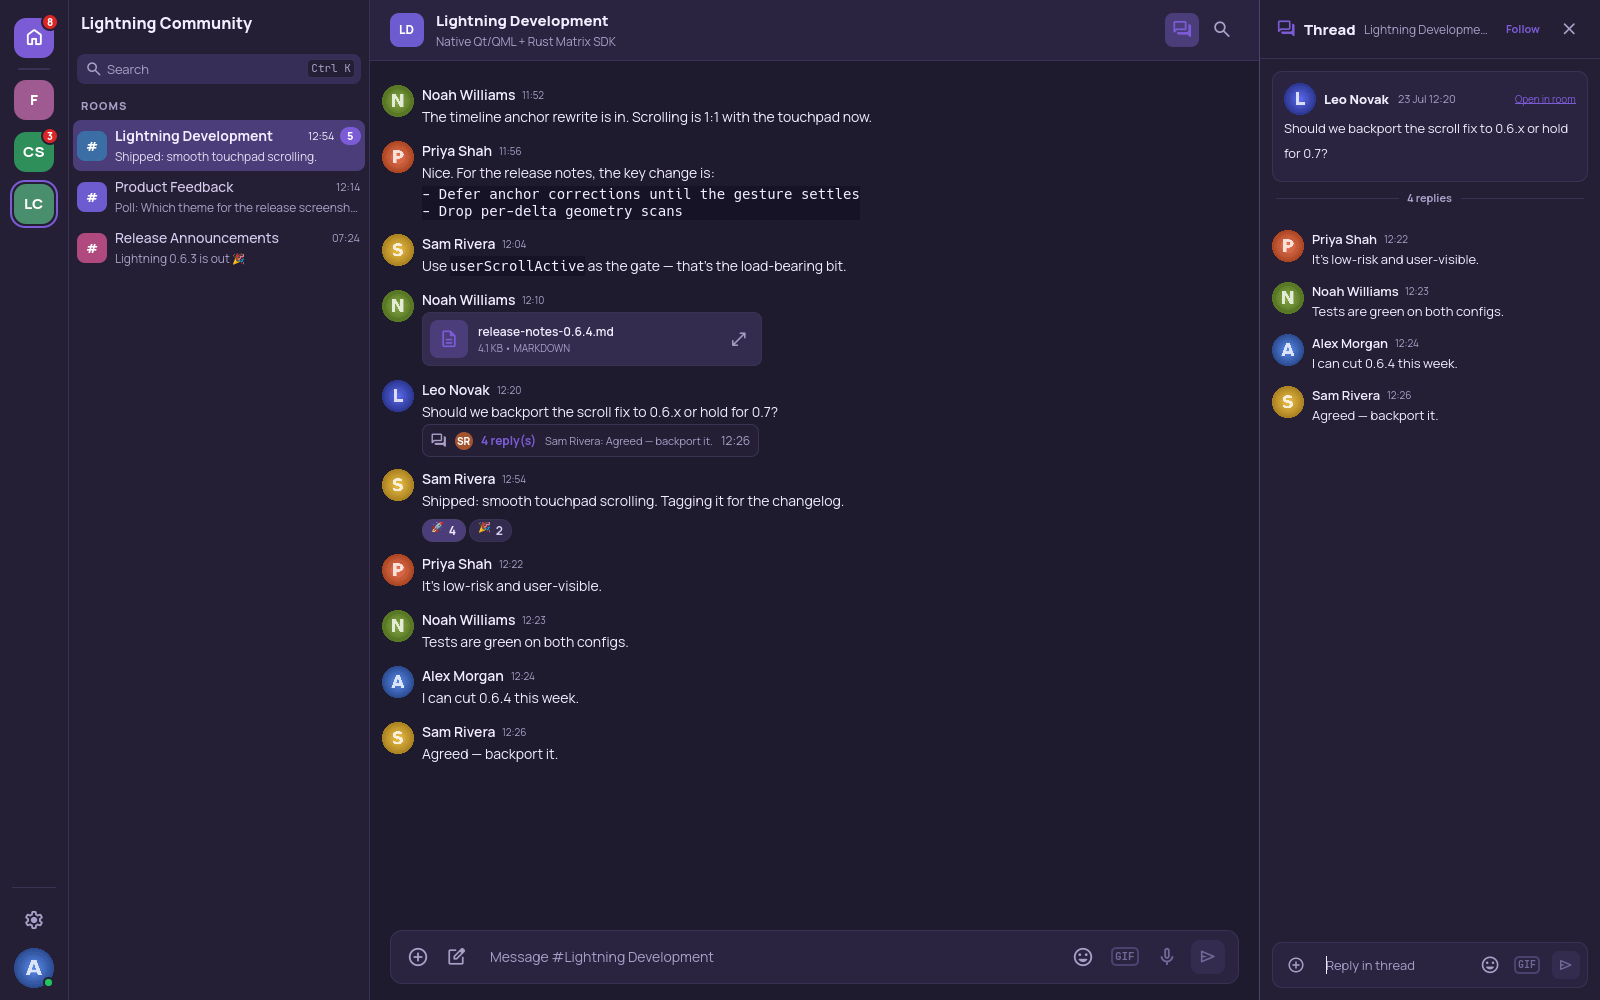
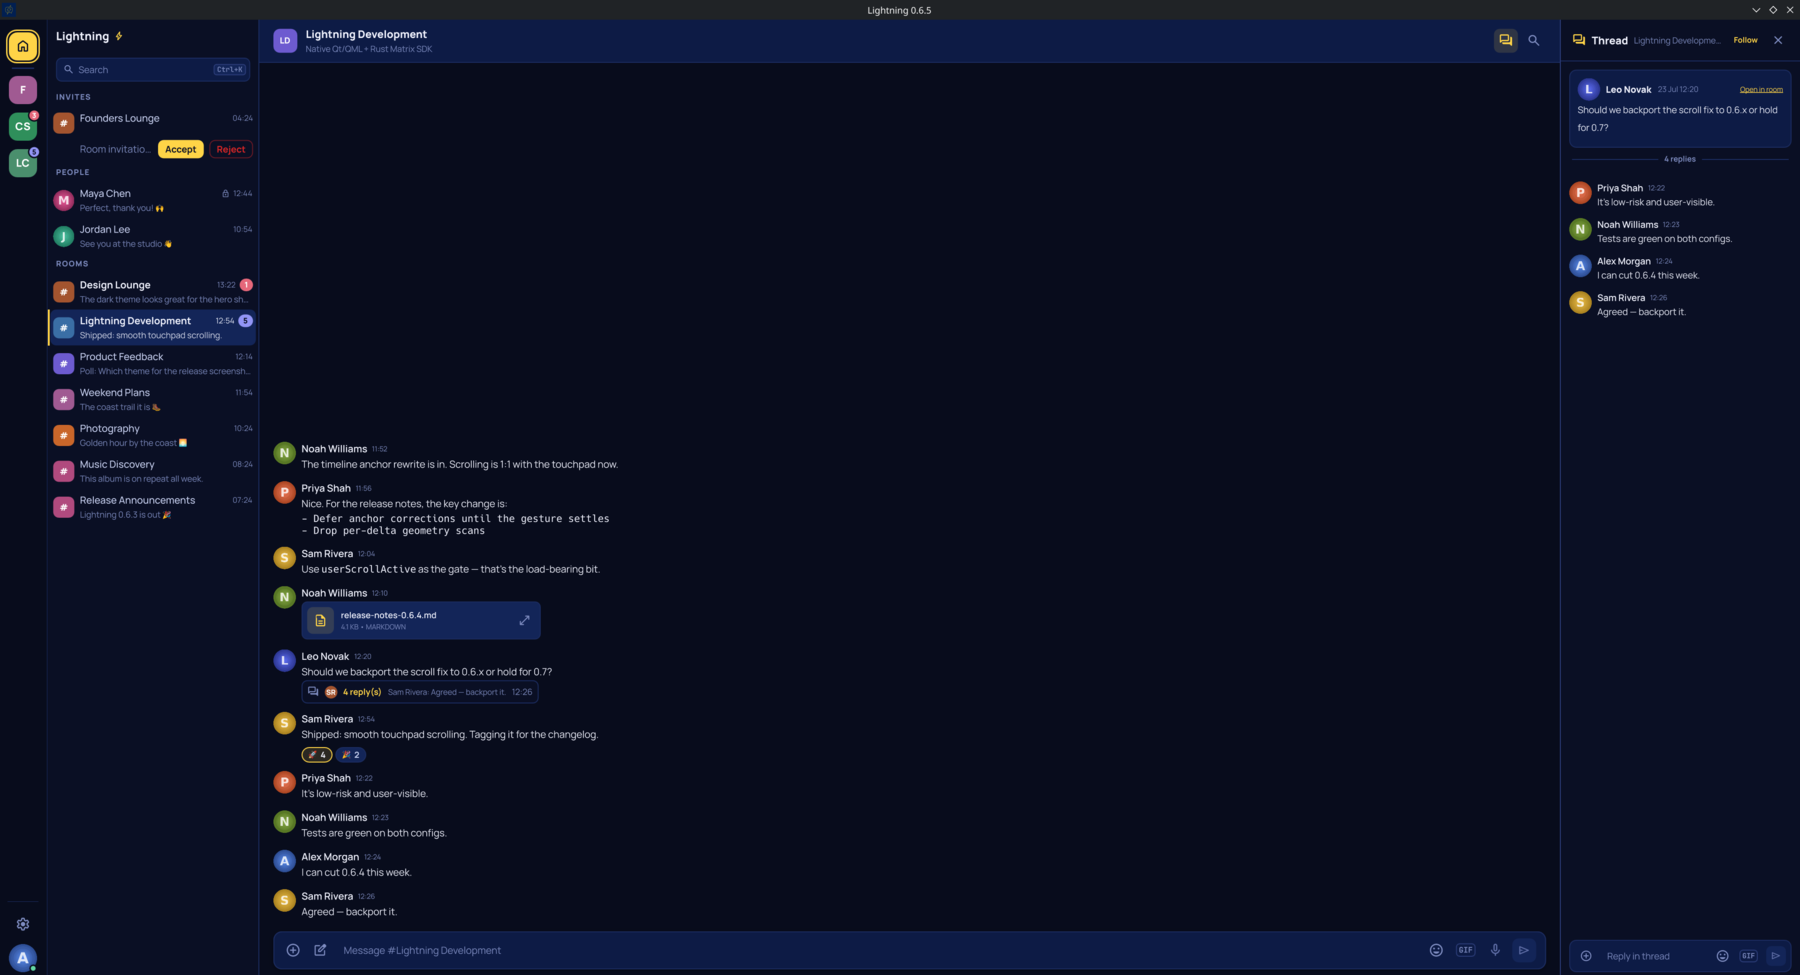
Rebuild the README around the current UI and name Windows as a platform
The README opened by calling Lightning "a Linux-first desktop Matrix client"
and carried a Linux-only platform badge, while the Installation section had
been listing signed Windows .zip/.msi/.exe packages since v0.6.3. The headline
contradicted the shipping artifacts.

Windows is now named where a reader actually looks: the one-line description
says Linux and Windows, the badge reads "Linux | Windows", and the qualifier —
Linux is the primary development and support target — sits with the status
note rather than being implied by omission.

Presentation:

  * a centred header block with the badges and the hero shot together, so the
    first screenful is what the application looks like rather than prose;
  * a six-row capability table under it — native rather than a web view, real
    SDK-owned E2EE, threads, multi-account, the composer, the licence — for
    the reader deciding in fifteen seconds whether to keep reading;
  * the Overview section removed. It restated the header almost sentence for
    sentence, so a Quick start block replaced it: clone, configure, build, run,
    with pointers to the full Installation and Building sections;
  * the screenshot gallery rebuilt around four current Storm-theme captures
    (GIF picker as the hero, plus emoji picker, thread panel and polls), with
    the note saying exactly which shots are current instead of blanket-
    disclaiming all of them. The account switcher, media gallery, settings and
[…]

diff --git a/README.md b/README.md
@@ -1,37 +1,52 @@
-# Lightning
+<div align="center">
 
-**A fast, native Matrix desktop client built with Qt and the official Rust Matrix SDK.**
+# ⚡ Lightning
 
-Lightning is a Linux-first desktop [Matrix](https://matrix.org/) client. The
-interface is written in Qt 6 / QML with C++ for the application layer, and the
-official [`matrix-rust-sdk`](https://github.com/matrix-org/matrix-rust-sdk)
-provides synchronisation, timelines, end-to-end encryption, threads, and media.
-
-> **Status:** under active development (0.6.x). It is usable day-to-day but not
-> formally audited or certified — expect rough edges and occasional regressions.
+**A fast, native Matrix desktop client — Qt 6 on top of the official Rust Matrix SDK.**
 
 [![Licence: GPL-3.0-or-later](https://img.shields.io/badge/licence-GPL--3.0--or--later-blue.svg)](LICENSE)
 [![Latest release](https://img.shields.io/badge/release-v0.6.5-2f6be0.svg)](https://gitlab.smetonis.net/Mizerd/lightning/-/releases)
+[![Platform: Linux | Windows](https://img.shields.io/badge/platform-Linux%20%7C%20Windows-4c8fdc.svg)](#installation)
 [![Qt 6](https://img.shields.io/badge/Qt-6.5%2B-41CD52.svg)](https://www.qt.io/)
 [![matrix-rust-sdk](https://img.shields.io/badge/matrix--rust--sdk-0.18-000000.svg)](https://github.com/matrix-org/matrix-rust-sdk)
-[![Platform: Linux](https://img.shields.io/badge/platform-Linux-FCC624.svg)](https://www.kernel.org/)
 ![Status: active development](https://img.shields.io/badge/status-active%20development-orange.svg)
 
-<p align="center">
-  <img src="docs/screenshots/lightning-main-chat.png"
-       alt="Lightning main chat: a room timeline with replies, reactions, a mention, an edited message, an image, and a typing indicator"
-       width="900">
-</p>
+<img src="docs/screenshots/lightning-main-chat.png"
+     alt="Lightning: a room timeline with replies, reactions, an image and the GIF picker open over the composer"
+     width="960">
 
-> The screenshots on this page are taken from Lightning's development-only
-> [screenshot-demo mode](#screenshot-demo-mode) and show fictional `*.example`
-> accounts and locally generated media — not real conversations. They were
-> captured before the 0.6.5 Storm design refresh, so current builds look
-> somewhat different.
+</div>
+
+Lightning is a desktop [Matrix](https://matrix.org/) client for **Linux and
+Windows**. The interface is Qt 6 / QML with C++ for the application layer, and
+the official [`matrix-rust-sdk`](https://github.com/matrix-org/matrix-rust-sdk)
+owns synchronisation, timelines, end-to-end encryption, threads, and media —
+Lightning implements no Matrix cryptography of its own.
+
+|  |  |
+|---|---|
+| **Native, not a web view** | Qt 6 / QML shell with a four-pane layout and eleven WCAG-AA themes |
+| **Real E2EE** | SDK-owned Olm/Megolm, cross-signing, SAS **and** QR verification, key backup |
+| **Threads that work** | SDK thread timelines, a dedicated panel, summary cards, threaded receipts |
+| **Multi-account** | Several homeservers at once, isolated stores, in-place switching |
+| **Rich composer** | Markdown, mentions, polls, GIFs, emoji, attachments — in rooms and threads |
+| **Open source** | GPL-3.0-or-later, packaged for both platforms |
+
+> **Status:** under active development (0.6.x). Usable day to day, but not
+> formally audited or certified — expect rough edges and occasional
+> regressions. Linux is the primary development and support target; Windows
+> (x86-64) packages ship alongside every release from v0.6.3 onward.
+
+> **About the screenshots.** Every screenshot here comes from Lightning's development-only
+> [screenshot-demo mode](#screenshot-demo-mode): fictional `*.example` accounts
+> and locally generated media, never real conversations. The Storm-theme shots
+> are current; the account switcher, media gallery, settings and responsive
+> shots predate the 0.6.5 Storm refresh and are kept for the surfaces they
+> show rather than for their exact styling.
 
 ## Contents
 
-- [Overview](#overview)
+- [Quick start](#quick-start)
 - [Features](#features)
 - [Screenshots](#screenshots)
 - [Installation](#installation)
@@ -45,17 +60,20 @@ provides synchronisation, timelines, end-to-end encryption, threads, and media.
 - [Packaging and releases](#packaging-and-releases)
 - [Licence](#licence)
 
-## Overview
+## Quick start
 
-Lightning aims to be a responsive, native desktop Matrix experience rather than
-a web view: a four-pane shell (Spaces rail, room list, timeline, side panel)
-with a cohesive design language (Storm, as of 0.6.5), SDK-backed encryption,
-modern room and thread workflows, efficient timeline navigation, and native
-desktop integration — all under an open-source licence.
+```sh
+# Prebuilt packages: https://gitlab.smetonis.net/Mizerd/lightning/-/releases
+# Or build and run from source (Nix dev shell):
+git clone https://gitlab.smetonis.net/Mizerd/lightning.git
+cd lightning
+nix develop -c cmake -S . -B build-rust -G Ninja -DENABLE_RUST_SDK_BACKEND=ON
+nix develop -c cmake --build build-rust -j"$(nproc)"
+nix develop -c ./build-rust/matrix-client --backend=rust
+```
 
-Matrix behaviour (login, sync, timelines, E2EE, media) is owned entirely by the
-official Rust Matrix SDK; Lightning does not implement its own Matrix
-cryptography.
+See [Installation](#installation) for packages and
+[Building from source](#building-from-source) for the full workflow.
 
 ## Features
 
@@ -103,8 +121,14 @@ still developing, some workflows remain experimental.
 - Images, files, and clipboard images, including encrypted attachments
 - Inline **video and audio playback** with posters, duration, and waveforms
 - Animated GIF attachments and a multi-provider GIF browser (GIPHY and KLIPY):
-  trending, search, categories, favourites, recents, safe-search, and autoplay
-  policy, sending as real Matrix media into rooms and threads
+  trending, search, categories, recents, safe-search, and autoplay policy,
+  sending as real Matrix media into rooms and threads
+- **Saved GIFs** — one star, one meaning, one place. Star a GIF anywhere (a
+  provider tile or a GIF in a chat) and it lands in the picker's **Saved** tab.
+  Provider GIFs are saved as links; a GIF saved out of a chat is copied to your
+  device, in an account-scoped store bounded at 200 items / 64 MiB that is
+  deleted on sign-out and disclosed in Settings. Each tile is tagged with where
+  it came from (GIPHY / KLIPY / Local)
 - Client-side link previews with encrypted-room privacy controls
 - Image viewer with save, and validated inline rendering of direct raster links
 
@@ -140,6 +164,10 @@ still developing, some workflows remain experimental.
   selectable UI fonts
 - Native freedesktop notifications with mentions, per-room modes, active-room
   suppression, privacy modes, and sounds
+- **Resizable pickers** — the GIF and emoji pickers sit on the composer and
+  scale with the window. Drag the corner to resize either one; both share a
+  single remembered size, stored as a proportion so it stays sensible across
+  window sizes and displays, and it persists between sessions
 - Responsive layouts from narrow to wide, a local Unicode emoji picker, an
   installed application icon and desktop entry, and accessible keyboard navigation
 
@@ -148,8 +176,8 @@ still developing, some workflows remain experimental.
 <table>
   <tr>
     <td width="50%">
-      <img src="docs/screenshots/lightning-media-gallery.png" alt="Media room with images, a video poster, an audio clip and a file attachment"><br>
-      <sub><b>Media</b> — images, video posters, audio and files render inline.</sub>
+      <img src="docs/screenshots/lightning-emoji-picker.png" alt="An encrypted direct message with the emoji picker open over the composer"><br>
+      <sub><b>Emoji picker</b> — categories, search, and a live preview, pinned to the composer.</sub>
     </td>
     <td width="50%">
       <img src="docs/screenshots/lightning-thread-view.png" alt="A thread panel open beside the main timeline"><br>
@@ -158,12 +186,12 @@ still developing, some workflows remain experimental.
   </tr>
   <tr>
     <td width="50%">
-      <img src="docs/screenshots/lightning-account-switcher.png" alt="Account switcher popover listing three signed-in accounts"><br>
-      <sub><b>Multi-account</b> — switch signed-in accounts in place.</sub>
+      <img src="docs/screenshots/lightning-poll.png" alt="A poll with four options and live vote counts in a room timeline"><br>
+      <sub><b>Polls</b> — create and vote inline, with live counts.</sub>
     </td>
     <td width="50%">
-      <img src="docs/screenshots/lightning-settings.png" alt="Settings Appearance page with theme cards and layout options"><br>
-      <sub><b>Settings</b> — themes, message layout, and text size.</sub>
+      <img src="docs/screenshots/lightning-media-gallery.png" alt="Media room with images, a video poster, an audio clip and a file attachment"><br>
+      <sub><b>Media</b> — images, video posters, audio and files render inline.</sub>
     </td>
   </tr>
 </table>
@@ -236,9 +264,12 @@ no network, no Matrix credentials, no real stores. It is how the screenshots on
 this page were produced, and it is impossible to reach in a shipped binary.
 
 ```sh
-scripts/run-screenshot-demo.sh --scenario main-chat --theme midnight \
-  --size 1440x900 --hide-controls
+scripts/run-screenshot-demo.sh --scenario main-chat --hide-controls
 ```
+
+Scenarios default to the Storm theme, and the GIF picker is browsable there —
+it is seeded with bundled animated fixtures rather than reaching a provider, so
+the picker photographs like a real session without a network or an API key.
 
 See [`docs/screenshot-demo.md`](docs/screenshot-demo.md) for accounts, scenarios,
 window presets, and the full option list.
